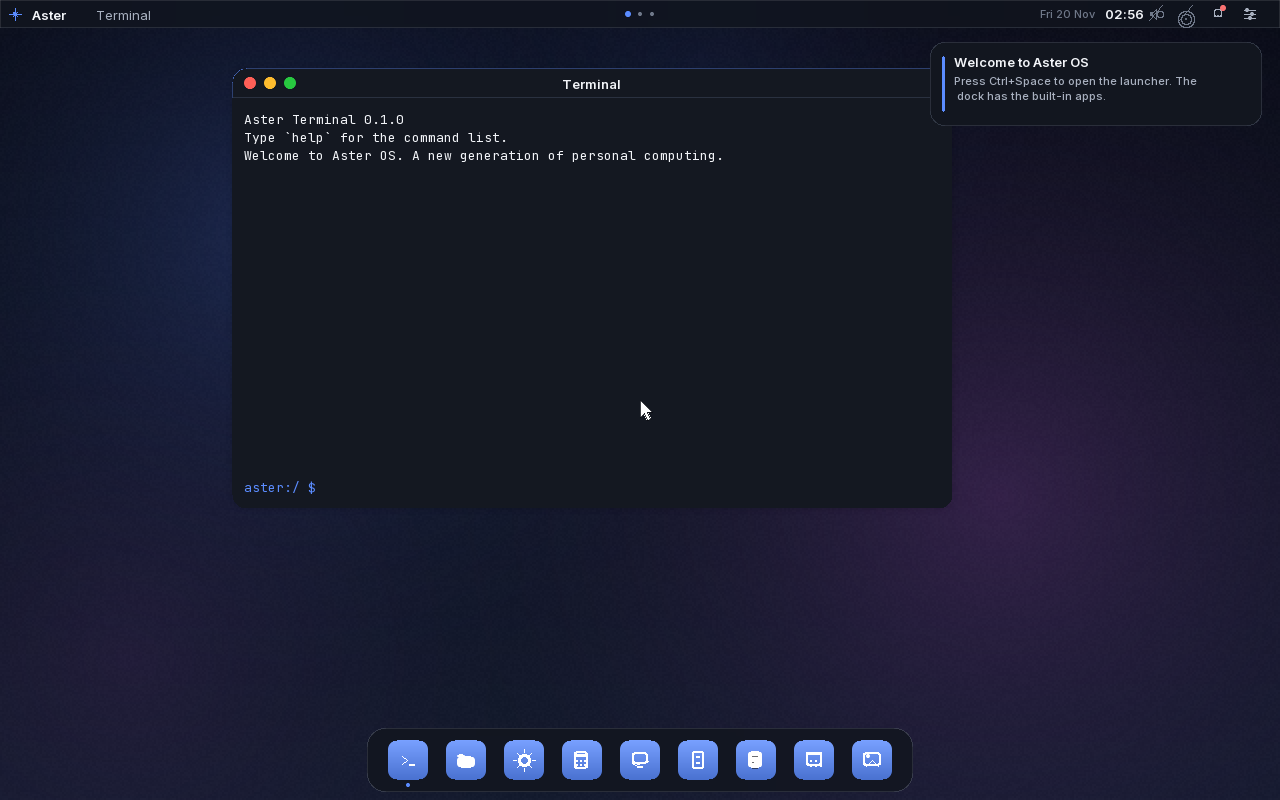
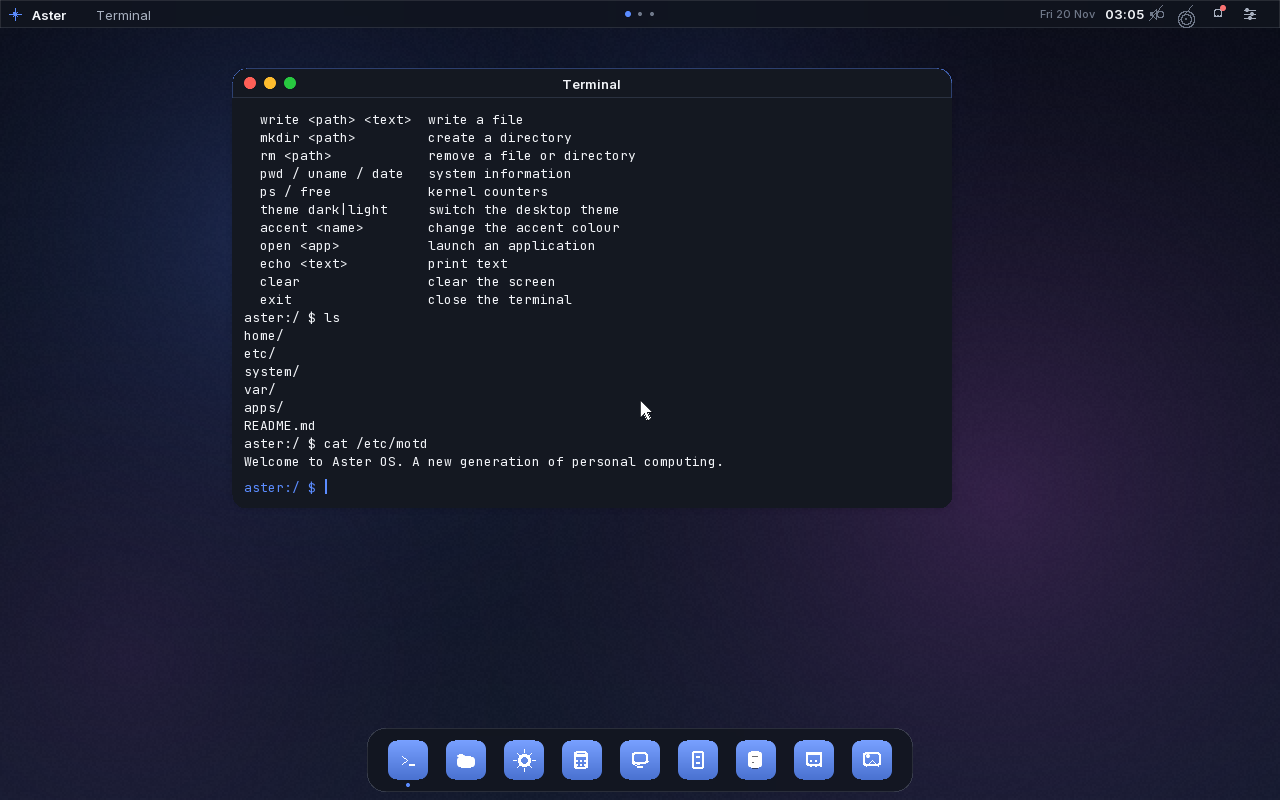
test: verify ls and cat through the Terminal and user syscalls
Extend the UI harness with readdir/read commands and refresh the
documentation screenshot and coverage matrix.

diff --git a/tools/ui_test.py b/tools/ui_test.py
@@ -25,6 +25,10 @@ def type_text(qmp: Qmp, text: str) -> None:
     for ch in text:
         if ch == " ":
             qmp.command("send-key", keys=[{"type": "qcode", "data": "spc"}])
+        elif ch == "/":
+            qmp.command("send-key", keys=[{"type": "qcode", "data": "slash"}])
+        elif ch == ".":
+            qmp.command("send-key", keys=[{"type": "qcode", "data": "dot"}])
         else:
             qmp.command("send-key", keys=[{"type": "qcode", "data": ch}])
         time.sleep(0.05)
@@ -71,6 +75,14 @@ def main() -> None:
         qmp.command("send-key", keys=[{"type": "qcode", "data": "ret"}])
         time.sleep(1.0)
         shot("01-terminal-help.ppm")
+
+        type_text(qmp, "ls")
+        qmp.command("send-key", keys=[{"type": "qcode", "data": "ret"}])
+        time.sleep(0.8)
+        type_text(qmp, "cat /etc/motd")
+        qmp.command("send-key", keys=[{"type": "qcode", "data": "ret"}])
+        time.sleep(0.8)
+        shot("01b-terminal-files.ppm")
 
         open_launcher(qmp)
         type_text(qmp, "set")
